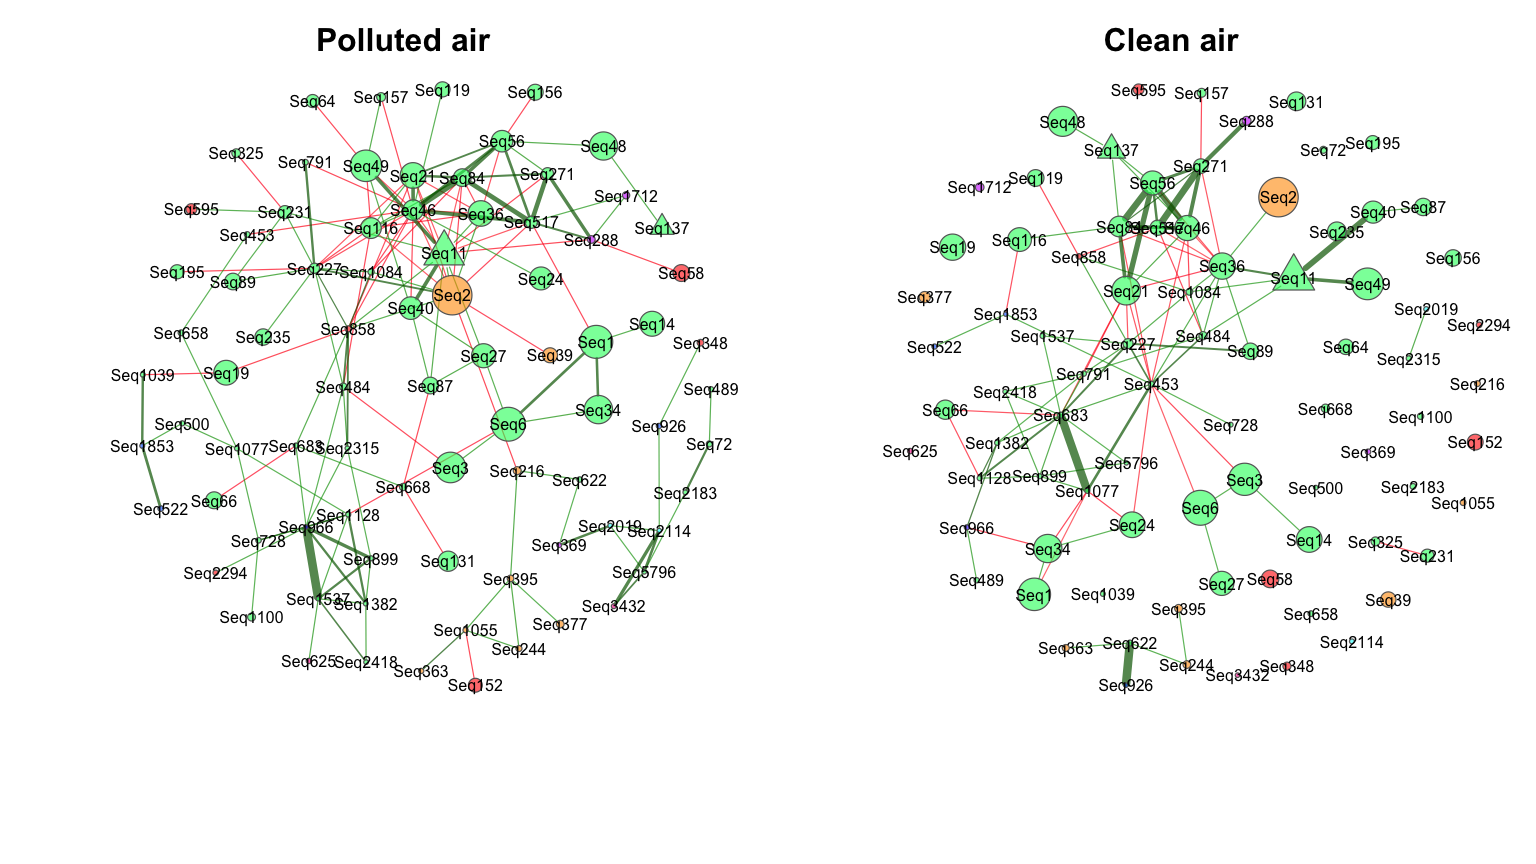
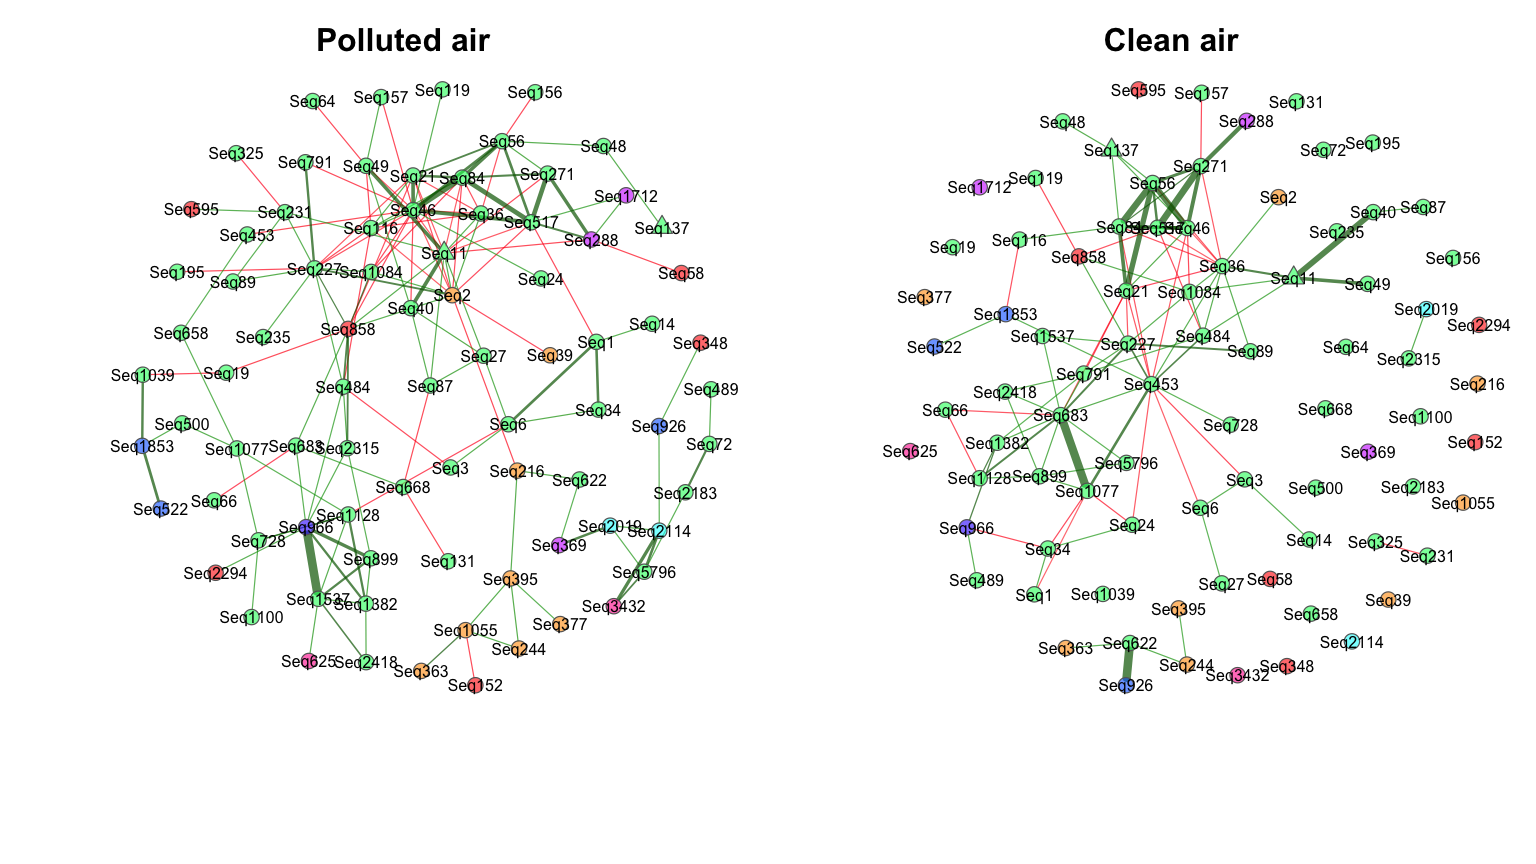
plots and results

diff --git a/5_networks/5.2.1_Networks_viz_Gen.md b/5_networks/5.2.1_Networks_viz_Gen.md
@@ -45,7 +45,11 @@ We plot the results of the netAnalyze function.
 ``` r
 phyl_ps_prune <- as.factor(tax_table(ps_Genus_prune)[, 'Phylum'])
 names(phyl_ps_prune) <- rownames(tax_table(ps_Genus_prune)[, 'Phylum'])
-phylcol <- rainbow(length(unique(phyl_ps_prune)))
+# phylcol <- rainbow(length(unique(phyl_ps_prune)))
+phylcol <- brewer.pal(9, "Set1")
+
+phylcol_names <- phylcol[phyl_ps_prune]
+names(phylcol_names) <- rownames(tax_table(ps_Genus_prune)[, 'Phylum'])
 
 set.seed(1)
 
@@ -53,19 +57,26 @@ shapeVec <- rep(1, ncol(otu_table(ps_Genus_prune)))
 shapeVec[c(116,5,47)] <- 2
 names(shapeVec) <- names(phyl_ps_prune)
 
-overall_plot <- plot(props_W, 
-     rmSingles = "inboth",
-     layout = "spring", repulsion = .85, 
-     # sameLayout = TRUE, layoutGroup = 1, 
+plot_props <- plot(props_W, 
+     layout = "spring",
+     sameLayout = TRUE, layoutGroup = 1, 
      labels = FALSE,
-     featVecCol = phyl_ps_prune, nodeColor = "feature", 
+     # labelScale = TRUE,
+     # featVecCol = phyl_ps_prune,
+     nodeColor = "colorVec",
+     colorVec = phylcol_names,
      nodeTransp = 20,
      borderCol = "gray40", highlightHubs = FALSE, 
-     nodeSize = "clr",
-     cexNodes = .3, cexTitle = 2,
-     edgeTranspLow = 30, edgeTranspHigh = 30,
+     # nodeSize = "clr", cexNodes = .5, 
+     cexNodes = 1, 
+     # nodeSizeSpread = 3,
+     cexTitle = 2,
+     edgeTranspLow = 30, 
+     edgeTranspHigh = 30,
+     # nodeShape = c("circle", "triangle","square","diamond"),
      nodeShape = c("circle", "triangle"),
      featVecShape = shapeVec,
+     rmSingles = "inboth",
      mar = c(6,5,3,2), groupNames = c("Polluted air", "Clean air"))
 legend("top", 
        inset = .05, title = "phylum:",
@@ -106,7 +117,7 @@ plot(props_W,
      featVecCol = phyl_ps_prune, nodeColor = "feature", 
      nodeTransp = 40,
      borderCol = "gray40", highlightHubs = FALSE, 
-     nodeSize = "clr",
+     # nodeSize = "clr",
      cexNodes = .5, cexTitle = 2,
      edgeTranspLow = 30, edgeTranspHigh = 30,
      nodeShape = c("circle", "triangle"),
@@ -148,7 +159,7 @@ plot_cluster <- plot(props_W,
      sameColThresh = 4,
      nodeTransp = 40, 
      borderCol = "gray40", highlightHubs = FALSE,
-     nodeSize = "clr", cexNodes = 1, 
+     # nodeSize = "clr", cexNodes = 1, 
      nodeShape = c("circle", "triangle"),
      featVecShape = shapeVec,
      rmSingles = "inboth",
@@ -232,36 +243,35 @@ names_clust <- unique(names_clust)
 # labels_phyl <- substr(as.character(phyl_ps_prune[names_clust]), 1, 3)
 col_module <- unique(plot_cluster$nodecolor$nodecol1[names_clust],
                      plot_cluster$nodecolor$nodecol2[names_clust])
+# 
+# plot_zoom <- plot(props_W, 
+#      sameLayout = TRUE, layoutGroup = 2, 
+#      featVecCol = phyl_ps_prune[names_clust],
+#      nodeColor = "feature",
+#      nodeFilter = "names",
+#      nodeFilterPar = names_clust)
 
-plot_zoom <- plot(props_W, 
-     sameLayout = TRUE, layoutGroup = 2, 
-     featVecCol = phyl_ps_prune[names_clust],
-     nodeColor = "feature",
-     nodeFilter = "names",
-     nodeFilterPar = names_clust)
-```
-
-![](5.2.1_Networks_viz_Gen_files/figure-gfm/unnamed-chunk-11-1.png)<!-- -->
-
-``` r
-order_labels <- plot_zoom$labels$labels1 ## save the ordered lanels and then replug in figure above 
+labels_1 <- unname(tax_table(ps_Genus_prune)[,"Genus"])
+labels_1[is.na(labels_1)] <- paste0("Order_", unname(tax_table(ps_Genus_prune)[is.na(labels_1),"Order"]))
+labels_1 <- as.character(labels_1)
+names(labels_1) <- rownames(tax_table(ps_Genus_prune)[, 'Genus'])
 
 plot(props_W, 
-     sameLayout = TRUE, layoutGroup = 2, 
+     # sameLayout = TRUE, layoutGroup = 2, 
      repulsion = .8,
      # charToRm = "Seq",
-     labels = as.character(labels_1[order_labels]),
+     labels = labels_1[names_clust],
      labelFont = 1, 
-     cexLabels = .8,
+     cexLabels = .7,
      labelScale = FALSE,
-     featVecCol = phyl_ps_prune[names_clust],
-     nodeColor = "feature",
-     # nodeColor = "colorVec",
-     # colorVec = list(plot_cluster$nodecolor$nodecol1[names_clust],
-     #              plot_cluster$nodecolor$nodecol2[names_clust]),
+     # featVecCol = phyl_ps_prune[names_clust],
+     nodeColor = "colorVec",
+     colorVec = list(phylcol_names[names_clust],
+                  phylcol_names[names_clust]),
      sameClustCol = FALSE,
      borderCol = "gray40", highlightHubs = FALSE,
-     nodeSize = "clr", cexNodes = 1.5, nodeTransp = 40,
+     # nodeSize = "clr", cexNodes = 1.5, 
+     nodeTransp = 40,
      nodeFilter = "names",
      nodeShape = c("circle", "triangle"),
      featVecShape = shapeVec[names_clust],
@@ -270,7 +280,7 @@ plot(props_W,
      groupNames = c("Polluted air", "Clean air"))
 ```
 
-![](5.2.1_Networks_viz_Gen_files/figure-gfm/unnamed-chunk-11-2.png)<!-- -->
+![](5.2.1_Networks_viz_Gen_files/figure-gfm/unnamed-chunk-11-1.png)<!-- -->
 
 ``` r
 tax_table(ps_Genus_prune)[c("Seq46","Seq21","Seq56","Seq517","Seq288","Seq11"),]
